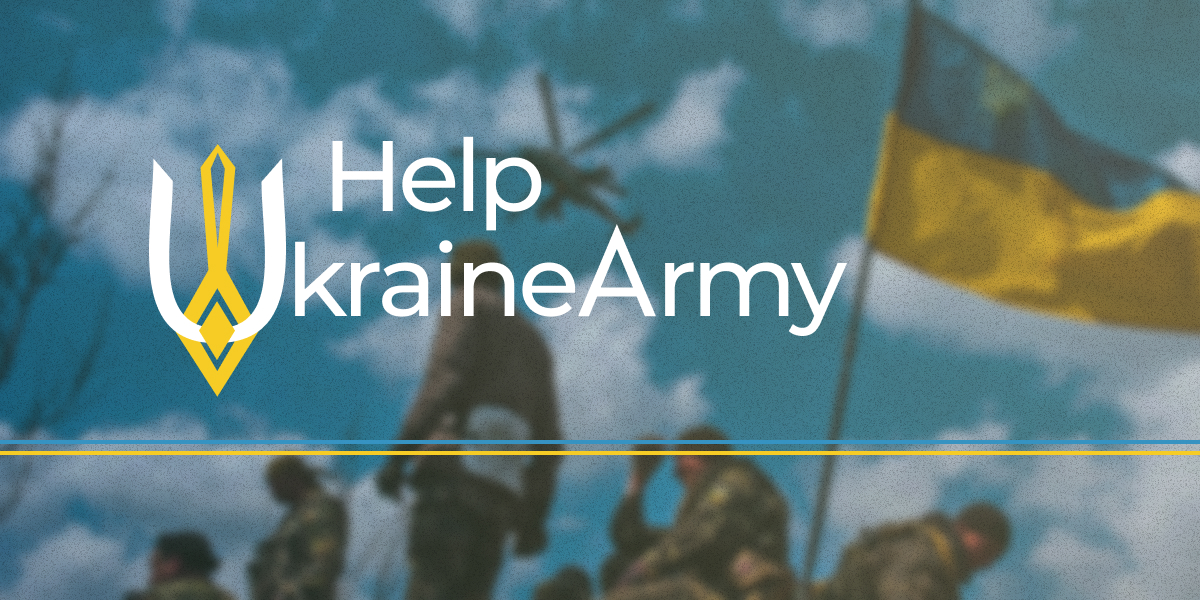
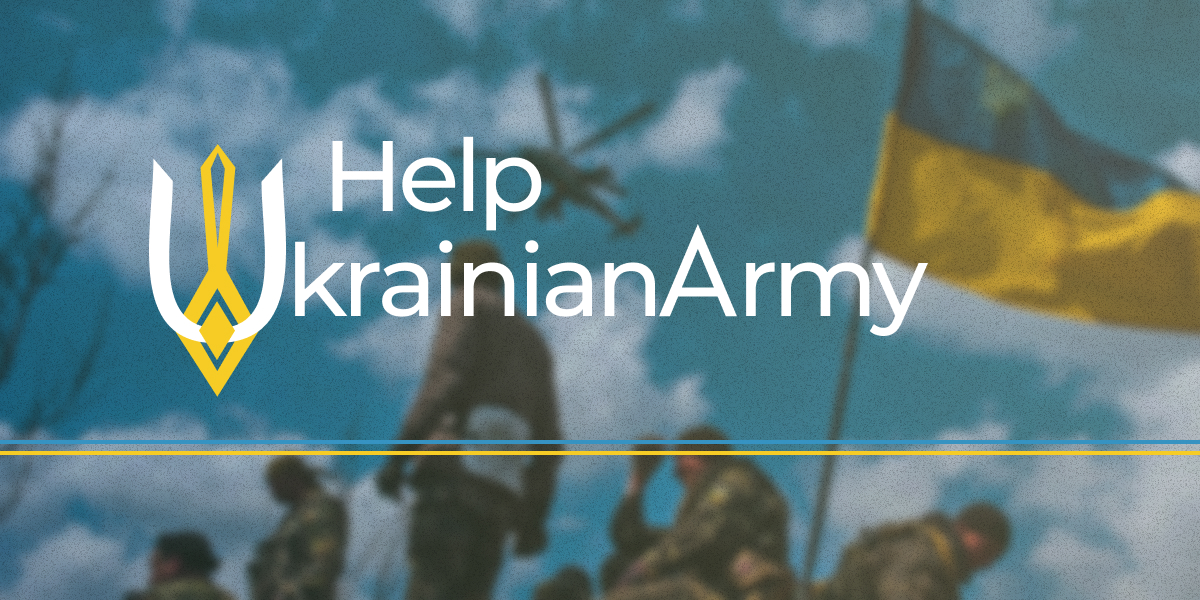
Update naming

Changed region(s): [[0.4317, 0.39, 0.7708, 0.57]]

diff --git a/src/lib/components/icons/Logotype.tsx b/src/lib/components/icons/Logotype.tsx
@@ -8,7 +8,7 @@ interface Props {
 
 export const Logotype = ({ color = colors.white.base }: Props) => {
   return (
-    <Icon width="171" height="35" viewBox="0 0 1533 255" fill="none">
+    <Icon width="192" height="29" viewBox="0 0 1680 255" fill="none">
       <path
         fillRule="evenodd"
         clipRule="evenodd"
@@ -24,11 +24,11 @@ export const Logotype = ({ color = colors.white.base }: Props) => {
         fill={colors.yellow.base}
       />
       <path
-        d="M1163.55 154.806H1089.05L1073.63 192H1053L1126.3 18L1200 192H1178.97L1163.55 154.806ZM1156.54 137.803L1126.3 64.9024L1096.06 137.803H1156.54Z"
+        d="M1310.55 157.806H1236.05L1220.63 195H1200L1273.3 21L1347 195H1325.97L1310.55 157.806ZM1303.54 140.803L1273.3 67.9024L1243.06 140.803H1303.54Z"
         fill={color}
       />
       <path
-        d="M1221.94 112.62C1224.94 107.1 1229.38 102.9 1235.26 100.02C1241.14 97.14 1248.28 95.7 1256.68 95.7V112.44C1255.72 112.32 1254.4 112.26 1252.72 112.26C1243.36 112.26 1235.98 115.08 1230.58 120.72C1225.3 126.24 1222.66 134.16 1222.66 144.48V192H1205.38V96.6H1221.94V112.62ZM1388.32 95.7C1400.32 95.7 1409.8 99.18 1416.76 106.14C1423.84 113.1 1427.38 123.42 1427.38 137.1V192H1410.1V139.08C1410.1 129.84 1407.94 122.88 1403.62 118.2C1399.42 113.52 1393.36 111.18 1385.44 111.18C1376.68 111.18 1369.72 113.94 1364.56 119.46C1359.4 124.86 1356.82 132.66 1356.82 142.86V192H1339.54V139.08C1339.54 129.84 1337.38 122.88 1333.06 118.2C1328.86 113.52 1322.8 111.18 1314.88 111.18C1306.12 111.18 1299.16 113.94 1294 119.46C1288.84 124.86 1286.26 132.66 1286.26 142.86V192H1268.98V96.6H1285.54V110.82C1289.02 105.9 1293.58 102.18 1299.22 99.66C1304.86 97.02 1311.28 95.7 1318.48 95.7C1325.92 95.7 1332.52 97.2 1338.28 100.2C1344.04 103.2 1348.48 107.58 1351.6 113.34C1355.2 107.82 1360.18 103.5 1366.54 100.38C1373.02 97.26 1380.28 95.7 1388.32 95.7ZM1532.84 96.6L1486.58 201.54C1482.5 211.26 1477.7 218.1 1472.18 222.06C1466.78 226.02 1460.24 228 1452.56 228C1447.88 228 1443.32 227.22 1438.88 225.66C1434.56 224.22 1430.96 222.06 1428.08 219.18L1435.46 206.22C1440.38 210.9 1446.08 213.24 1452.56 213.24C1456.76 213.24 1460.24 212.1 1463 209.82C1465.88 207.66 1468.46 203.88 1470.74 198.48L1473.8 191.82L1431.68 96.6H1449.68L1482.98 172.92L1515.92 96.6H1532.84Z"
+        d="M1368.94 115.62C1371.94 110.1 1376.38 105.9 1382.26 103.02C1388.14 100.14 1395.28 98.7 1403.68 98.7V115.44C1402.72 115.32 1401.4 115.26 1399.72 115.26C1390.36 115.26 1382.98 118.08 1377.58 123.72C1372.3 129.24 1369.66 137.16 1369.66 147.48V195H1352.38V99.6H1368.94V115.62ZM1535.32 98.7C1547.32 98.7 1556.8 102.18 1563.76 109.14C1570.84 116.1 1574.38 126.42 1574.38 140.1V195H1557.1V142.08C1557.1 132.84 1554.94 125.88 1550.62 121.2C1546.42 116.52 1540.36 114.18 1532.44 114.18C1523.68 114.18 1516.72 116.94 1511.56 122.46C1506.4 127.86 1503.82 135.66 1503.82 145.86V195H1486.54V142.08C1486.54 132.84 1484.38 125.88 1480.06 121.2C1475.86 116.52 1469.8 114.18 1461.88 114.18C1453.12 114.18 1446.16 116.94 1441 122.46C1435.84 127.86 1433.26 135.66 1433.26 145.86V195H1415.98V99.6H1432.54V113.82C1436.02 108.9 1440.58 105.18 1446.22 102.66C1451.86 100.02 1458.28 98.7 1465.48 98.7C1472.92 98.7 1479.52 100.2 1485.28 103.2C1491.04 106.2 1495.48 110.58 1498.6 116.34C1502.2 110.82 1507.18 106.5 1513.54 103.38C1520.02 100.26 1527.28 98.7 1535.32 98.7ZM1679.84 99.6L1633.58 204.54C1629.5 214.26 1624.7 221.1 1619.18 225.06C1613.78 229.02 1607.24 231 1599.56 231C1594.88 231 1590.32 230.22 1585.88 228.66C1581.56 227.22 1577.96 225.06 1575.08 222.18L1582.46 209.22C1587.38 213.9 1593.08 216.24 1599.56 216.24C1603.76 216.24 1607.24 215.1 1610 212.82C1612.88 210.66 1615.46 206.88 1617.74 201.48L1620.8 194.82L1578.68 99.6H1596.68L1629.98 175.92L1662.92 99.6H1679.84Z"
         fill={color}
       />
       <path
@@ -36,7 +36,7 @@ export const Logotype = ({ color = colors.white.base }: Props) => {
         fill={color}
       />
       <path
-        d="M589.46 150.54L569.66 168.9V195H552.38V61.44H569.66V147.12L621.68 99.6H642.56L602.42 139.02L646.52 195H625.28L589.46 150.54ZM669.628 115.62C672.628 110.1 677.068 105.9 682.947 103.02C688.828 100.14 695.968 98.7 704.368 98.7V115.44C703.408 115.32 702.088 115.26 700.408 115.26C691.048 115.26 683.668 118.08 678.268 123.72C672.988 129.24 670.348 137.16 670.348 147.48V195H653.068V99.6H669.628V115.62ZM751.229 98.7C764.429 98.7 774.509 101.94 781.469 108.42C788.549 114.9 792.089 124.56 792.089 137.4V195H775.709V182.4C772.829 186.84 768.689 190.26 763.289 192.66C758.009 194.94 751.709 196.08 744.389 196.08C733.709 196.08 725.129 193.5 718.649 188.34C712.289 183.18 709.109 176.4 709.109 168C709.109 159.6 712.169 152.88 718.289 147.84C724.409 142.68 734.129 140.1 747.449 140.1H774.809V136.68C774.809 129.24 772.649 123.54 768.329 119.58C764.009 115.62 757.649 113.64 749.249 113.64C743.609 113.64 738.089 114.6 732.689 116.52C727.289 118.32 722.729 120.78 719.009 123.9L711.809 110.94C716.729 106.98 722.609 103.98 729.449 101.94C736.289 99.78 743.549 98.7 751.229 98.7ZM747.269 182.76C753.869 182.76 759.569 181.32 764.369 178.44C769.169 175.44 772.649 171.24 774.809 165.84V152.52H748.169C733.529 152.52 726.209 157.44 726.209 167.28C726.209 172.08 728.069 175.86 731.789 178.62C735.509 181.38 740.669 182.76 747.269 182.76ZM815.068 99.6H832.348V195H815.068V99.6ZM823.708 81.24C820.348 81.24 817.528 80.16 815.248 78C813.088 75.84 812.008 73.2 812.008 70.08C812.008 66.96 813.088 64.32 815.248 62.16C817.528 59.88 820.348 58.74 823.708 58.74C827.068 58.74 829.828 59.82 831.988 61.98C834.268 64.02 835.408 66.6 835.408 69.72C835.408 72.96 834.268 75.72 831.988 78C829.828 80.16 827.068 81.24 823.708 81.24ZM907.281 98.7C919.401 98.7 929.001 102.24 936.081 109.32C943.281 116.28 946.881 126.54 946.881 140.1V195H929.601V142.08C929.601 132.84 927.381 125.88 922.941 121.2C918.501 116.52 912.141 114.18 903.861 114.18C894.501 114.18 887.121 116.94 881.721 122.46C876.321 127.86 873.621 135.66 873.621 145.86V195H856.341V99.6H872.901V114C876.381 109.08 881.061 105.3 886.941 102.66C892.941 100.02 899.721 98.7 907.281 98.7ZM1056.61 147.84C1056.61 149.16 1056.49 150.9 1056.25 153.06H978.848C979.928 161.46 983.588 168.24 989.828 173.4C996.188 178.44 1004.05 180.96 1013.41 180.96C1024.81 180.96 1033.99 177.12 1040.95 169.44L1050.49 180.6C1046.17 185.64 1040.77 189.48 1034.29 192.12C1027.93 194.76 1020.79 196.08 1012.87 196.08C1002.79 196.08 993.848 194.04 986.048 189.96C978.248 185.76 972.188 179.94 967.868 172.5C963.668 165.06 961.568 156.66 961.568 147.3C961.568 138.06 963.608 129.72 967.688 122.28C971.888 114.84 977.588 109.08 984.788 105C992.108 100.8 1000.33 98.7 1009.45 98.7C1018.57 98.7 1026.67 100.8 1033.75 105C1040.95 109.08 1046.53 114.84 1050.49 122.28C1054.57 129.72 1056.61 138.24 1056.61 147.84ZM1009.45 113.28C1001.17 113.28 994.208 115.8 988.568 120.84C983.048 125.88 979.808 132.48 978.848 140.64H1040.05C1039.09 132.6 1035.79 126.06 1030.15 121.02C1024.63 115.86 1017.73 113.28 1009.45 113.28Z"
+        d="M589.46 150.54L569.66 168.9V195H552.38V61.44H569.66V147.12L621.68 99.6H642.56L602.42 139.02L646.52 195H625.28L589.46 150.54ZM669.628 115.62C672.628 110.1 677.068 105.9 682.947 103.02C688.828 100.14 695.968 98.7 704.368 98.7V115.44C703.408 115.32 702.088 115.26 700.408 115.26C691.048 115.26 683.668 118.08 678.268 123.72C672.988 129.24 670.348 137.16 670.348 147.48V195H653.068V99.6H669.628V115.62ZM751.229 98.7C764.429 98.7 774.509 101.94 781.469 108.42C788.549 114.9 792.089 124.56 792.089 137.4V195H775.709V182.4C772.829 186.84 768.689 190.26 763.289 192.66C758.009 194.94 751.709 196.08 744.389 196.08C733.709 196.08 725.129 193.5 718.649 188.34C712.289 183.18 709.109 176.4 709.109 168C709.109 159.6 712.169 152.88 718.289 147.84C724.409 142.68 734.129 140.1 747.449 140.1H774.809V136.68C774.809 129.24 772.649 123.54 768.329 119.58C764.009 115.62 757.649 113.64 749.249 113.64C743.609 113.64 738.089 114.6 732.689 116.52C727.289 118.32 722.729 120.78 719.009 123.9L711.809 110.94C716.729 106.98 722.609 103.98 729.449 101.94C736.289 99.78 743.549 98.7 751.229 98.7ZM747.269 182.76C753.869 182.76 759.569 181.32 764.369 178.44C769.169 175.44 772.649 171.24 774.809 165.84V152.52H748.169C733.529 152.52 726.209 157.44 726.209 167.28C726.209 172.08 728.069 175.86 731.789 178.62C735.509 181.38 740.669 182.76 747.269 182.76ZM815.068 99.6H832.348V195H815.068V99.6ZM823.708 81.24C820.348 81.24 817.528 80.16 815.248 78C813.088 75.84 812.008 73.2 812.008 70.08C812.008 66.96 813.088 64.32 815.248 62.16C817.528 59.88 820.348 58.74 823.708 58.74C827.068 58.74 829.828 59.82 831.988 61.98C834.268 64.02 835.408 66.6 835.408 69.72C835.408 72.96 834.268 75.72 831.988 78C829.828 80.16 827.068 81.24 823.708 81.24ZM907.281 98.7C919.401 98.7 929.001 102.24 936.081 109.32C943.281 116.28 946.881 126.54 946.881 140.1V195H929.601V142.08C929.601 132.84 927.381 125.88 922.941 121.2C918.501 116.52 912.141 114.18 903.861 114.18C894.501 114.18 887.121 116.94 881.721 122.46C876.321 127.86 873.621 135.66 873.621 145.86V195H856.341V99.6H872.901V114C876.381 109.08 881.061 105.3 886.941 102.66C892.941 100.02 899.721 98.7 907.281 98.7ZM969.86 99.6H987.14V195H969.86V99.6ZM978.5 81.24C975.14 81.24 972.32 80.16 970.04 78C967.88 75.84 966.8 73.2 966.8 70.08C966.8 66.96 967.88 64.32 970.04 62.16C972.32 59.88 975.14 58.74 978.5 58.74C981.86 58.74 984.62 59.82 986.78 61.98C989.06 64.02 990.2 66.6 990.2 69.72C990.2 72.96 989.06 75.72 986.78 78C984.62 80.16 981.86 81.24 978.5 81.24ZM1045.87 98.7C1059.07 98.7 1069.15 101.94 1076.11 108.42C1083.19 114.9 1086.73 124.56 1086.73 137.4V195H1070.35V182.4C1067.47 186.84 1063.33 190.26 1057.93 192.66C1052.65 194.94 1046.35 196.08 1039.03 196.08C1028.35 196.08 1019.77 193.5 1013.29 188.34C1006.93 183.18 1003.75 176.4 1003.75 168C1003.75 159.6 1006.81 152.88 1012.93 147.84C1019.05 142.68 1028.77 140.1 1042.09 140.1H1069.45V136.68C1069.45 129.24 1067.29 123.54 1062.97 119.58C1058.65 115.62 1052.29 113.64 1043.89 113.64C1038.25 113.64 1032.73 114.6 1027.33 116.52C1021.93 118.32 1017.37 120.78 1013.65 123.9L1006.45 110.94C1011.37 106.98 1017.25 103.98 1024.09 101.94C1030.93 99.78 1038.19 98.7 1045.87 98.7ZM1041.91 182.76C1048.51 182.76 1054.21 181.32 1059.01 178.44C1063.81 175.44 1067.29 171.24 1069.45 165.84V152.52H1042.81C1028.17 152.52 1020.85 157.44 1020.85 167.28C1020.85 172.08 1022.71 175.86 1026.43 178.62C1030.15 181.38 1035.31 182.76 1041.91 182.76ZM1160.65 98.7C1172.77 98.7 1182.37 102.24 1189.45 109.32C1196.65 116.28 1200.25 126.54 1200.25 140.1V195H1182.97V142.08C1182.97 132.84 1180.75 125.88 1176.31 121.2C1171.87 116.52 1165.51 114.18 1157.23 114.18C1147.87 114.18 1140.49 116.94 1135.09 122.46C1129.69 127.86 1126.99 135.66 1126.99 145.86V195H1109.71V99.6H1126.27V114C1129.75 109.08 1134.43 105.3 1140.31 102.66C1146.31 100.02 1153.09 98.7 1160.65 98.7Z"
         fill={color}
       />
     </Icon>

diff --git a/src/pages/fundraisings.tsx b/src/pages/fundraisings.tsx
@@ -13,9 +13,9 @@ interface FundraisingsProps {
 }
 
 const TITLE =
-  "Verified fundraisers to support the Ukrainian Army | Help Ukraine Army";
+  "Verified fundraisers to support the Ukrainian Army | Help Ukrainian Army";
 const DESC =
-  "A list of official and verified foundations and fundraisers directly supporting the Ukrainian Army. Choose a fundraiser and make a real impact! | Help Ukraine Army";
+  "A list of official and verified foundations and fundraisers directly supporting the Ukrainian Army. Choose a fundraiser and make a real impact! | Help Ukrainian Army";
 
 export default function FundraisingsPage({ fundraisings }: FundraisingsProps) {
   return (

diff --git a/src/lib/components/SEOTags.tsx b/src/lib/components/SEOTags.tsx
@@ -9,7 +9,7 @@ interface Props {
 const DESC =
   "Guidance on official and verified campaigns supporting the Ukrainian Army and defence. Find verified fundraisers and foundations to help the Ukrainian Army!";
 const TITLE =
-  "Verified support for the Ukrainian Army and defence | Help Ukraine Army";
+  "Verified support for the Ukrainian Army and defence | Help Ukrainian Army";
 const IMAGE_URL = "https://ukraine-army.help/preview.jpg";
 
 export const SEOTags = ({

diff --git a/src/pages/_document.tsx b/src/pages/_document.tsx
@@ -5,7 +5,7 @@ import Document, { Html, Head, Main, NextScript } from "next/document";
 
 import customTheme from "lib/styles/customTheme";
 
-const APP_NAME = "Help Ukraine Army";
+const APP_NAME = "Help Ukrainian Army";
 
 class MyDocument extends Document {
   static getInitialProps(ctx: DocumentContext) {
